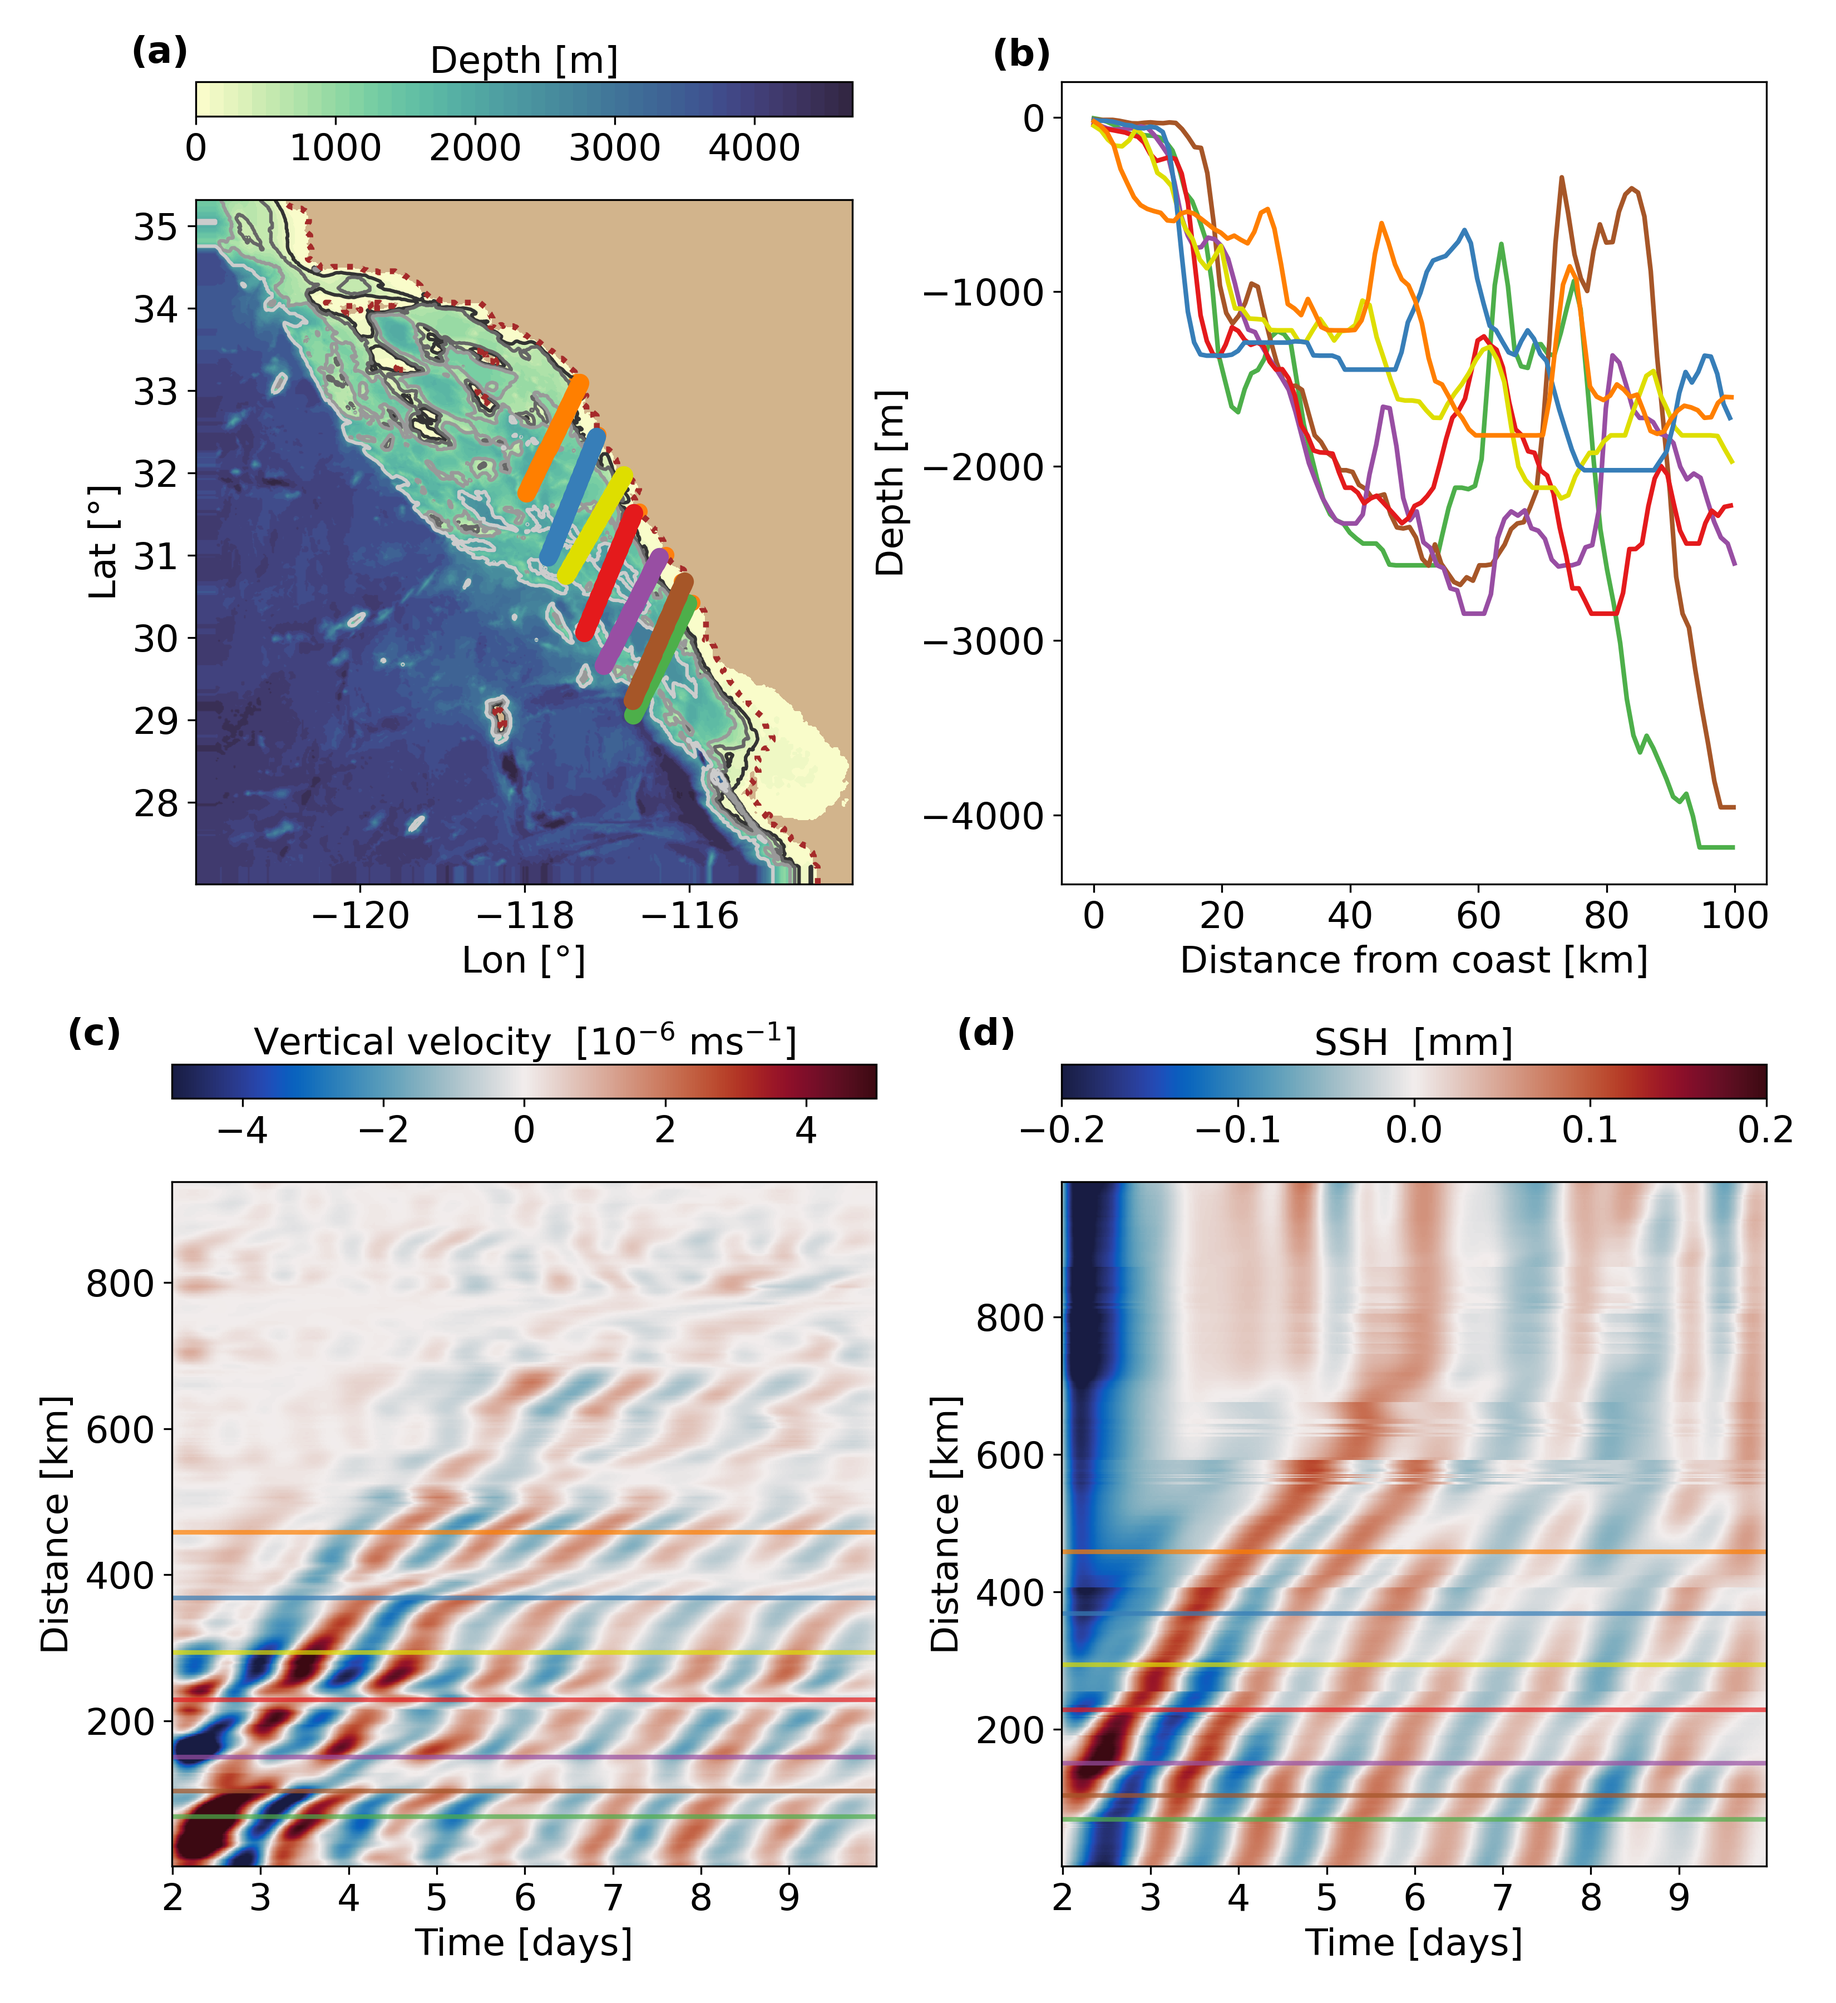
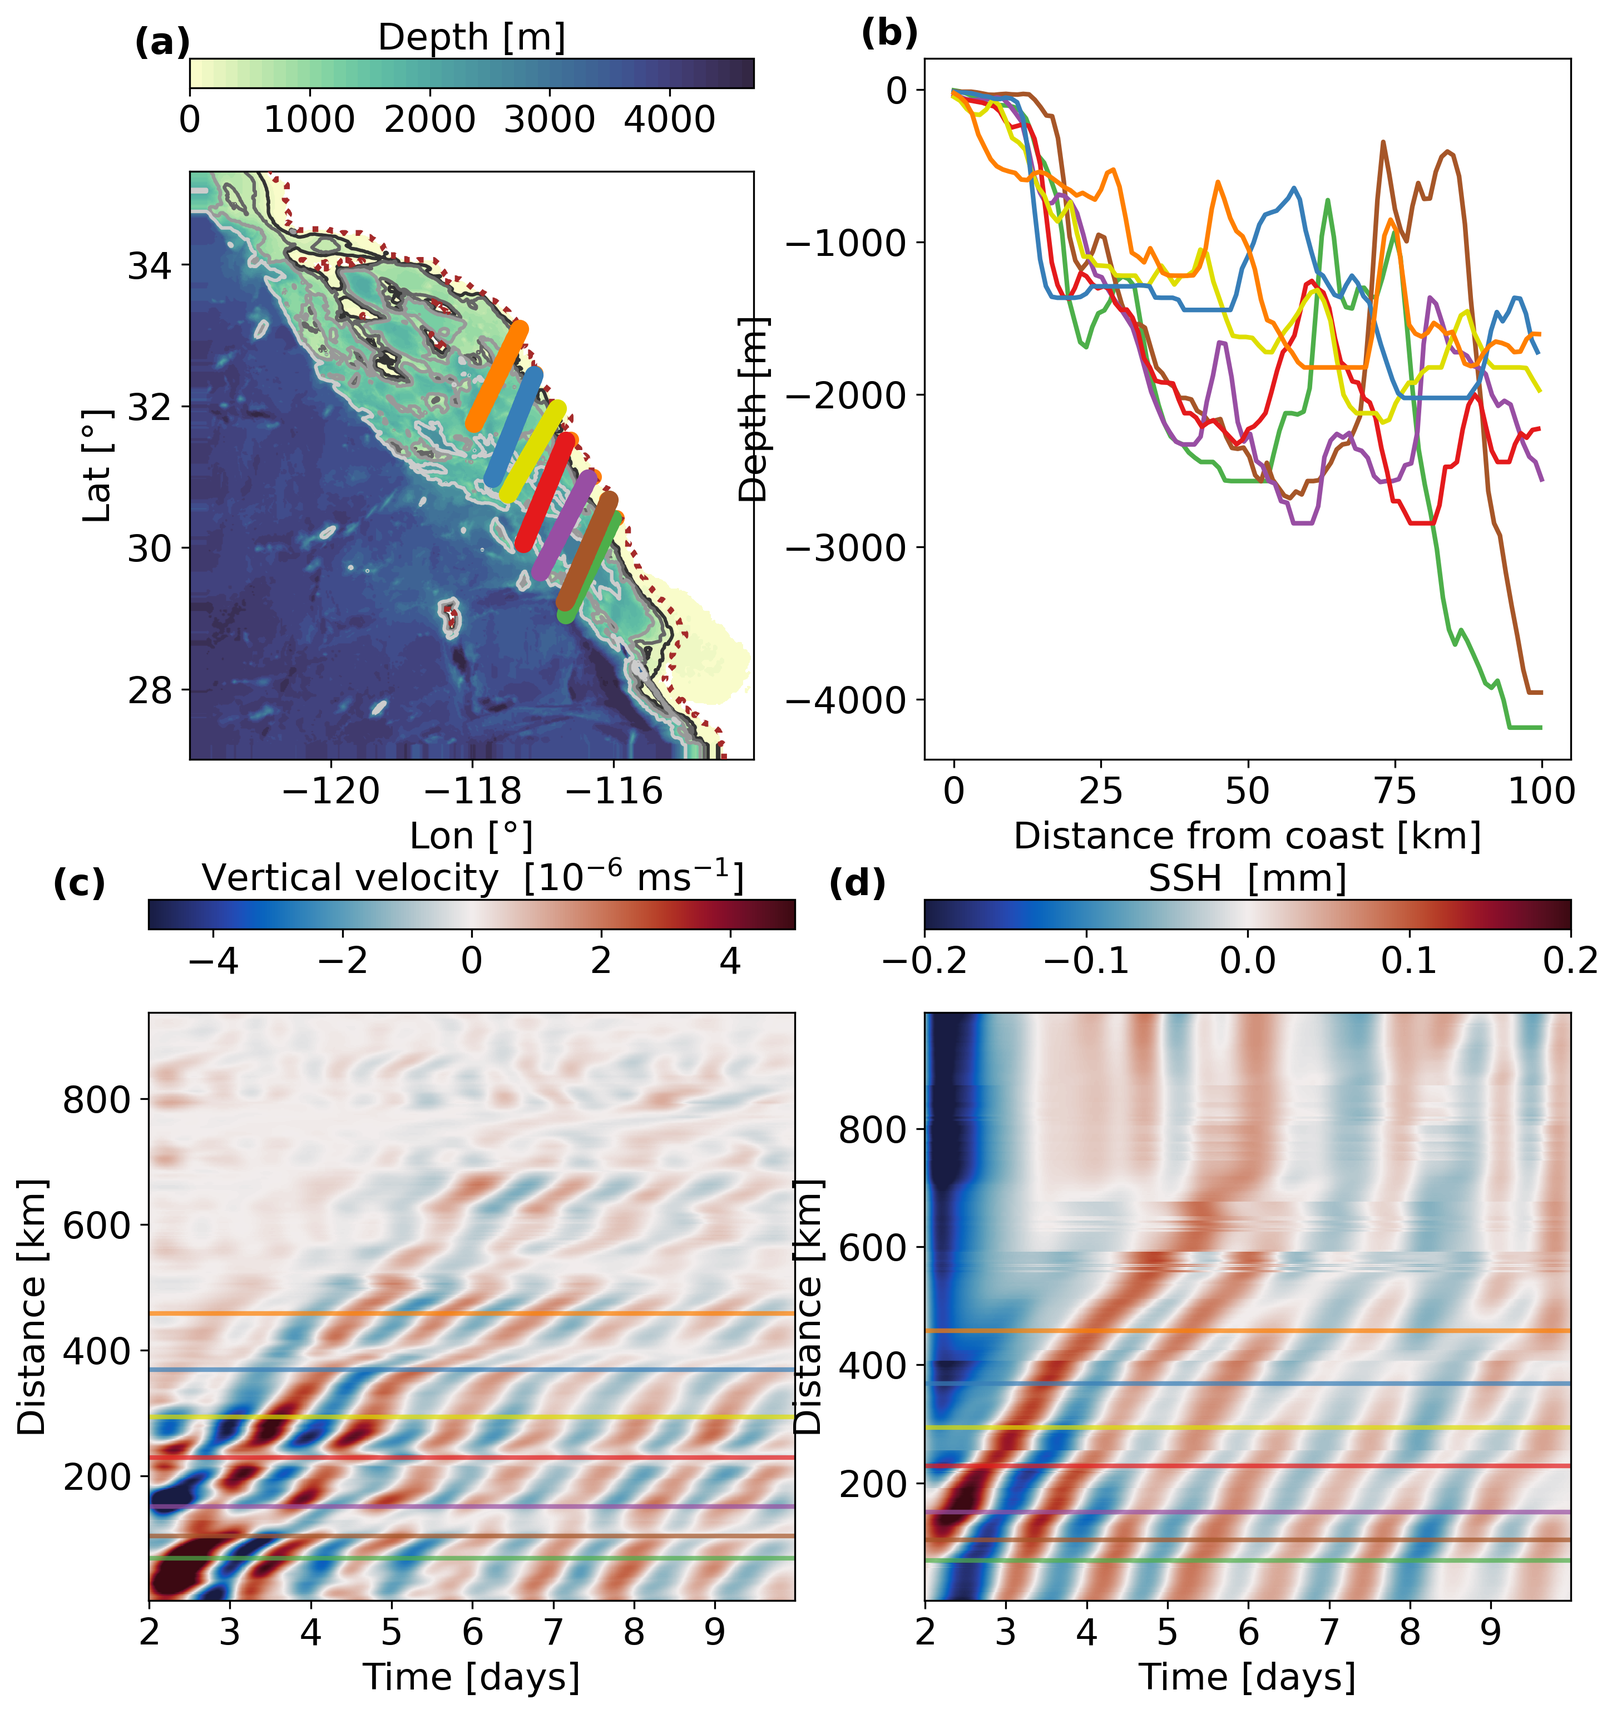
newplots

diff --git a/Scripts/SVBfunc.py b/Scripts/SVBfunc.py
@@ -625,11 +625,14 @@ def weightedmovingaverage(Data, length):
                 weighted = np.append(weighted, wma) # add to array
     return weighted
 
-def recenter(vel,Z,LON,LAT,lon,lat):
+def recenter(velin,Z,LON,LAT,lon,lat,maskin):
 	Recent=np.zeros((len(Z),len(lat)))
 	
 	for d in range(len(Z)):
-		interp=sciint.RegularGridInterpolator((LAT,LON),vel.values[d])
+		mask=maskin[d]
+		vel=velin[d].values
+		vel[np.where(mask==True)]=np.nan
+		interp=sciint.RegularGridInterpolator((LAT,LON),vel)
 		Recent[d]=interp((lat,lon))
 	
 	return Recent
@@ -639,6 +642,11 @@ def CrossectExctraction(i,dsw,dsn,filt,detrend,var,corrind,coast):
 	Z=dsw[0].Z.values
 	LAT = dsw[0].YC.values
 	LON = dsw[0].XC.values - 360
+	
+	hFacC = dsw[0].hFacC
+	
+	hfa = np.ma.masked_values(hFacC, 0)
+	maskin = np.ma.getmask(hfa)
 	
 	if coast == 'smooth':
 		day=9
@@ -688,10 +696,10 @@ def CrossectExctraction(i,dsw,dsn,filt,detrend,var,corrind,coast):
 				    
 			for t in np.arange(0,len(dsw[tt].time),1):					
 
-				Ub=recenter(dsw[tt].UVEL[t],Z,LON,LAT,lon,lat)
-				Vb=recenter(dsw[tt].VVEL[t],Z,LON,LAT,lon,lat)
-				Un=recenter(dsn[tt].UVEL[t],Z,LON,LAT,lon,lat)
-				Vn=recenter(dsn[tt].VVEL[t],Z,LON,LAT,lon,lat)
+				Ub=recenter(dsw[tt].UVEL[t],Z,LON,LAT,lon,lat,maskin)
+				Vb=recenter(dsw[tt].VVEL[t],Z,LON,LAT,lon,lat,maskin)
+				Un=recenter(dsn[tt].UVEL[t],Z,LON,LAT,lon,lat,maskin)
+				Vn=recenter(dsn[tt].VVEL[t],Z,LON,LAT,lon,lat,maskin)
 				
 				VALb=(sin(deg) * Ub +  Vb * cos(deg))
 				VALn=(sin(deg) * Un +  Vb * cos(deg))
@@ -710,8 +718,8 @@ def CrossectExctraction(i,dsw,dsn,filt,detrend,var,corrind,coast):
 			for t in np.arange(0,len(dsw[tt].time),1):
 				exec(f'global invarB; invarB=dsw[tt].{var}[t]')
 				exec(f'global invarN; invarN=dsn[tt].{var}[t]')
-				VALb=recenter(invarB,Z,LON,LAT,lon,lat)
-				VALn=recenter(invarN,Z,LON,LAT,lon,lat)
+				VALb=recenter(invarB,Z,LON,LAT,lon,lat,maskin)
+				VALn=recenter(invarN,Z,LON,LAT,lon,lat,maskin)
 				VALmit=VALb-VALn
 				VALMIT[t,:,:]=VALmit
 			
@@ -722,6 +730,8 @@ def CrossectExctraction(i,dsw,dsn,filt,detrend,var,corrind,coast):
 	fs=1/1200
 	fs2=0
 	
+	VALMITpre[np.isnan(VALMITpre)]=0
+
 	print('Filtering begins')
 	for d in np.arange(np.size(VALMITpre,2)):
 		VALdif,VALfiltout,VALfiltAll,inds = FiltDetrend(VALMITpre[:,:,d],filt,detrend,fs,fs2)
@@ -1068,8 +1078,8 @@ def lin_reg(VALmit,valinBrink,dist,xpl,Z,z,zgr,xgr):
 
 def fitmodes(dsw,dsn,valinBrink,xpl,Z,z,dist,zgr,xgr,ds,time,coast,var):
     
-    indX=dist<=50
-    indZ=Z<=1500
+    indX=dist<np.max(xgr)
+    indZ=Z>np.min(zgr)
     
     Z=Z[indZ]
     dist=dist[indX]
@@ -1099,7 +1109,7 @@ def fitmodes(dsw,dsn,valinBrink,xpl,Z,z,dist,zgr,xgr,ds,time,coast,var):
             fit[t]=100*(ssr/sst)
         
     
-    return VALfit,betas,xbeta,yhat,dist,VALMIT,varbrink,grid_X,grid_Z,fit,Y,xpi,Ypre,RMSE,valmitint
+    return VALfit,betas,xbeta,yhat,dist,VALMIT,varbrink,grid_X,grid_Z,fit,Y,xpi,Ypre,RMSE,valmitint,Z
 
 def linearregressionSave(filt,varin,coast):
 	if coast == 'smooth':
@@ -1107,8 +1117,8 @@ def linearregressionSave(filt,varin,coast):
 	elif coast == 'original':
 		startday=2
 	
-	hej=[35,54,79,120,154,194,219]  
-	corrinds=[30.49,30.77,31.13,31.69,32.11,32.65,33.02] 
+	hej=[120,154,194,219] #[35,54,79, 
+	corrinds=[31.69,32.11,32.65,33.02] #[30.49,30.77,31.13,
 
 	if filt=='filt':
 		var= 'Filt' + str(varin)
@@ -1132,7 +1142,7 @@ def linearregressionSave(filt,varin,coast):
 		for l in np.arange(0,5,1):
 			if exists('/home/athelandersson/CTW-analysis/Files/' + str(coast) + '/CrossectsPerp/dataSVB'+ str(corrinds[ik]) +'freq' + str(l) + '.mat') == True:
 				print('Mode ' + str(l))
-				uo,vo,wo,ro,po,z,ko,omegao, xpl, xxx, zzz, zgr, xgr, epeo, ekeo = get_Brink('/home/athelandersson/CTW-analysis/Files/' + str(coast) + '/CrossectsPerp/dataSVB'+ str(corrinds[ik]) +'freq' + str(l) + '.mat')	
+				uo,vo,wo,ro,po,z,ko,omegao, xpl, xxx, zzz, zgr, xgr, epeo, ekeo = get_Brink('/home/athelandersson/CTW-analysis/Files/' + str(coast) + '/CrossectsPerp/dataSVB'+ str(corrinds[ik]) +'freq' + str(l) + '.mat')
 				u.append(uo.imag) 
 				v.append(vo)
 				w.append(wo.imag)
@@ -1153,7 +1163,7 @@ def linearregressionSave(filt,varin,coast):
 				dsw,dsn=loadNetCDFs(dirw,dirn,'dynVars',startday)
 			
 		
-		ds=xr.open_dataset('/home/athelandersson/CTW-analysis/Files/' + str(coast) + '/Locations/new/' + str(varin) + str(corrinds[ik]) + '.nc')
+		ds=xr.open_dataset('/home/athelandersson/CTW-analysis/Files/' + str(coast) + '/Locations/' + str(varin) + str(corrinds[ik]) + '.nc')
 		
 		Z=dsw[0].Z.values
 		TIME=ds.TIME.values
@@ -1167,7 +1177,7 @@ def linearregressionSave(filt,varin,coast):
 			valinBrink=u
 		elif varin == 'WVEL':
 			valinBrink=w
-		VALfit,betas,xbeta,yhat,dist,VALmit,varbrink,grid_X,grid_Z,fit,Y,xpi,Ypre,RMSE,valmitint=fitmodes(dsw,dsn,valinBrink,xpl,Z,z,dist,zgr,xgr,ds,TIME,coast,var)
+		VALfit,betas,xbeta,yhat,dist,VALmit,varbrink,grid_X,grid_Z,fit,Y,xpi,Ypre,RMSE,valmitint,Z=fitmodes(dsw,dsn,valinBrink,xpl,Z,z,dist,zgr,xgr,ds,TIME,coast,var)
 		
 		FILENAME='/home/athelandersson/CTW-analysis/Files/' + str(coast) + '/Peaks' + str(varin) + '/LinRegPeaks' + str(corrinds[ik]) + str(filt) + '.nc'
 		ds = xr.Dataset({'valfit': (("time","z","x"), VALfit),

diff --git a/Scripts/ExtractIndicesPerp2coast.py b/Scripts/ExtractIndicesPerp2coast.py
@@ -157,13 +157,13 @@ for ind in range(1,len(lonWeight30)-1,1):
         degreeSHORT.append(deg)
 
 
-mdicALL = {"dist": dist, "d":dep, 'lon':lonNew,'lat':latNew,'degree':degree }
+#mdicALL = {"dist": dist, "d":dep, 'lon':lonNew,'lat':latNew,'degree':degree }
 
-savemat('/home/athelandersson/CTW-analysis/Files/' + str(coast) + "/BT_PALL_MovAv.mat", mdicALL)
+#savemat('/home/athelandersson/CTW-analysis/Files/' + str(coast) + "/BT_PALL_MovAv.mat", mdicALL)
 
-mdichej2 = {"dist": distSHORT, "d":depSHORT, 'lon':lonNewSHORT,'lat':latNewSHORT,'degree':degreeSHORT }
+#mdichej2 = {"dist": distSHORT, "d":depSHORT, 'lon':lonNewSHORT,'lat':latNewSHORT,'degree':degreeSHORT }
 
-savemat('/home/athelandersson/CTW-analysis/Files/' + str(coast) + "/BT_P_MovAv.mat", mdichej2)
+#savemat('/home/athelandersson/CTW-analysis/Files/' + str(coast) + "/BT_P_MovAv.mat", mdichej2)
 
 if plotALL==1:
 	filenam="/BT_PALL_MovAv.mat"
@@ -206,13 +206,13 @@ gs = GridSpec(nrows=2, ncols=2)
 ax = fig.add_subplot(gs[0, 0])
 ax.set_facecolor('tan')
 pc = ax.contourf(LON, LAT, np.ma.masked_array(depth, mask=mask), 50,
-	         vmin=0, vmax=5000, cmap=cmocean.cm.deep) 
+	         vmin=0, vmax=5000,zorder=1, cmap=cmocean.cm.deep) 
 
 
 
 cn = ax.contour(LON, LAT, depth, colors=['0.2', '0.4', '0.6', '0.8'],
-	        levels=[200,500, 1000, 2000])
-ax.contour(LON, LAT, depthno[:, :], levels=[0], colors='brown', linestyles=':', linewidths=2.5)
+	        levels=[200,500, 1000, 2000],zorder=2)
+ax.contour(LON, LAT, depthno[:, :], levels=[0], colors='brown', linestyles=':', linewidths=2.5,zorder=3)
 divider = make_axes_locatable(ax)
 axdiv = divider.new_vertical(size = '5%', pad = 0.5)
 fig.add_axes(axdiv)
@@ -235,10 +235,10 @@ ax1.set_ylabel('Depth [m]')
 
 for i in range(len(dep)):
 	if len(hej2ind)>20:
-		ax.scatter(lon[i][0],lat[i][0],linewidth=2)
+		ax.scatter(lon[i][0],lat[i][0],linewidth=2,zorder=4)
 		ax1.plot(x[i][0],-dep[i][0],linewidth=2)
 	else:
-                ax.scatter(lon[i][0],lat[i][0],color=colors[i],linewidth=2)
+                ax.scatter(lon[i][0],lat[i][0],color=colors[i],linewidth=2,zorder=4)
                 ax1.plot(x[i][0],-dep[i][0],color=colors[i],linewidth=2)
 
 
@@ -273,6 +273,6 @@ for i in range(len(hej2ind)):
 
 
 if len(dep)>20:
-	plt.savefig('/home/athelandersson/CTW-analysis/Figures/' + str(coast) + '/indsperpALL_res' + str(nr) + '.png')	
+	plt.savefig('/home/athelandersson/CTW-analysis/Figures/' + str(coast) + '/indsperpALL_res' + str(nr) + '.png',transparent=True,bbox_inches='tight')	
 else:
-	plt.savefig('/home/athelandersson/CTW-analysis/Figures/' + str(coast) + '/indsperp_res' + str(nr) + '.png')	
+	plt.savefig('/home/athelandersson/CTW-analysis/Figures/' + str(coast) + '/indsperp_res' + str(nr) + '.png',transparent=True,bbox_inches='tight')	

diff --git a/Scripts/FilteringCrossection.py b/Scripts/FilteringCrossection.py
@@ -8,8 +8,8 @@ nr=1
 #for coast in COASTS:
 hej=[35,54,79,120,154,194,219]  
 corrind=[30.49,30.77,31.13,31.69,32.11,32.65,33.02] #[30.49,31.69,32.11] # 30.4884, 31.6852, 32.1068
-varlist= ['ashore','PHIHYD','WVEL'] #['ashore','cshore']
-varlistLONGNAME= ['Crosshore velocity','Hydrostatic Pressure Pot.(p/rho) Anomaly','U-Velocity','V-Velocity','Vertical Velocity'] #['Alongshore velocity','Crosshore velocity']
+varlist=['PHIHYD'] # ['ashore','PHIHYD','WVEL'] #['ashore','cshore']
+varlistLONGNAME= ['Hydrostatic Pressure Pot.(p/rho) Anomaly'] #['Crosshore velocity','Hydrostatic Pressure Pot.(p/rho) Anomaly','U-Velocity','V-Velocity','Vertical Velocity'] #['Alongshore velocity','Crosshore velocity']
 
 dirn='/home/athelandersson/NETCDFs/' + str(coast) + '_NO/'
 dirw='/home/athelandersson/NETCDFs/' + str(coast) + '/'

diff --git a/Scripts/RunLinReg.py b/Scripts/RunLinReg.py
@@ -1,12 +1,10 @@
 import SVBfunc
-VAR=['ashore','PHIHYD','WVEL']
+VAR=['PHIHYD'] #['ashore','WVEL'] #['ashore','PHIHYD','WVEL']
 FILT=['no','filt']
-#COAST=['smooth','original']
-#for coast in COAST:
-
-coast='original'
-for var in VAR:
-	for filt in FILT:
-		SVBfunc.linearregressionSave(filt,var,coast)
-		print('Done with ' + str(coast) + ' ' + str(var) + ' ' +  str(filt))
+COAST=['smooth','original']
+for coast in COAST:
+	for var in VAR:
+		for filt in FILT:
+			SVBfunc.linearregressionSave(filt,var,coast)
+			print('Done with ' + str(coast) + ' ' + str(var) + ' ' +  str(filt))
 
